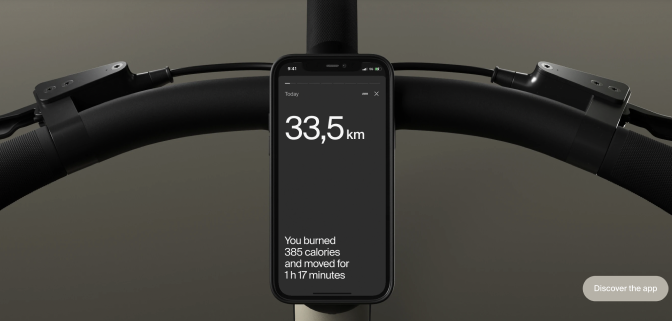
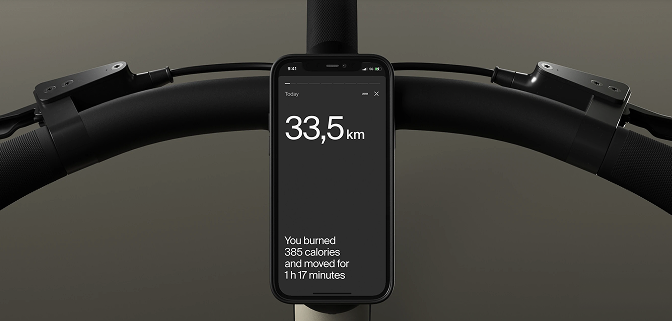
fix some issues

diff --git a/src/index.html b/src/index.html
@@ -38,7 +38,12 @@
             </a>
             <div class="top-bar__icons">
               <div class="top-bar__phone-wrapper">
-                <span class="top-bar__number">+1 234 555-55-55</span>
+                <a
+                  href="tel:+1 234 555-55-55"
+                  class="top-bar__number"
+                >
+                  +1 234 555-55-55
+                </a>
                 <a
                   href="tel:+1 234 555-55-55"
                   class="top-bar__icon top-bar__icon--phone"

diff --git a/src/styles/blocks/top-bar.scss b/src/styles/blocks/top-bar.scss
@@ -36,14 +36,18 @@
   }
 
   &__number {
-    display: block;
-    opacity: 0;
-    visibility: hidden;
+    display: none;
 
     color: #fff;
     font-size: 12px;
     font-weight: 700;
     transition-duration: $duration;
+
+    @include on-desktop {
+      display: block;
+      opacity: 0;
+      visibility: hidden;
+    }
   }
   &__phone-wrapper {
     display: flex;

diff --git a/src/styles/main.scss b/src/styles/main.scss
@@ -1,7 +1,6 @@
 @use './until/fonts.scss';
 @use './until/mixsins.scss';
 @use './until/variable.scss';
-
 @use './blocks/default.scss';
 @use './blocks/header.scss';
 @use './blocks/top-bar.scss';

diff --git a/src/styles/blocks/header.scss b/src/styles/blocks/header.scss
@@ -8,6 +8,7 @@
   background-repeat: no-repeat;
   background-size: cover;
   background-position: center;
+  background-attachment: fixed;
   padding-bottom: 88px;
 
   @include on-tablet {

diff --git a/.stylelintrc.js b/.stylelintrc.js
@@ -3,5 +3,6 @@ module.exports = {
   plugins: [
     "stylelint-scss"
   ],
+  ignoreFiles: ["src/dist/**/*"],
   rules: {}
 };
